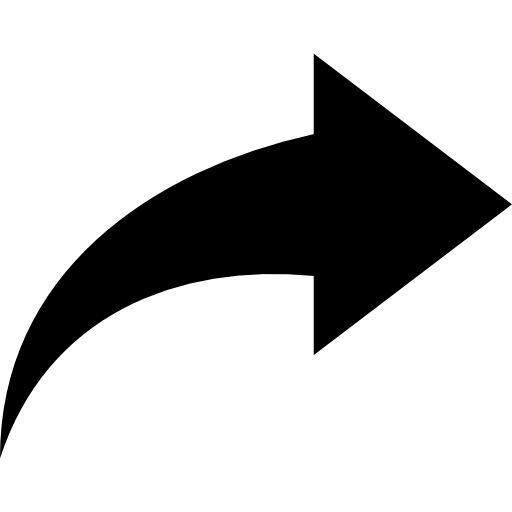
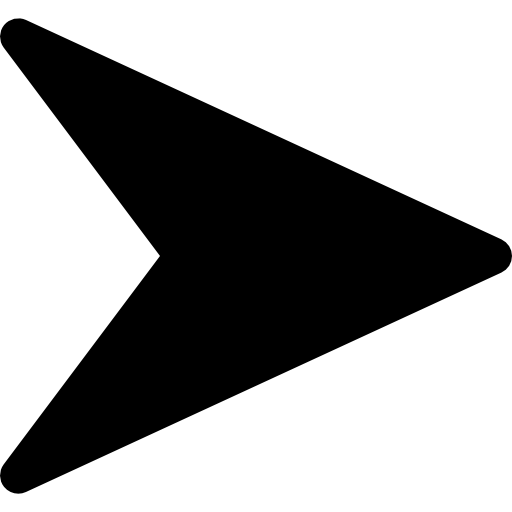
style changed

diff --git a/index.html b/index.html
@@ -10,33 +10,8 @@
             margin: 0;
             padding: 0;
         }
-        .head{
-            display: flex;
-            flex-direction: row;
-            align-items: center;
-            justify-items: center;
-        }
-        h1{
-            font-size: 100px;
-            color:white;
-            margin-top: 5px;
-            text-align: center;
-        }
-        .image{
-            display: flex;
-            justify-content: space-around;
-        }
-        .img{
-            height: 150px;
-            margin-top: 80px;
-            
-        }
-        .img1{
-            height: 200px;
-            margin-top: 80px;
-            
-        }
         p{
+            margin-top: 10px;
             font-size: 100px;
             color:white;
         }
@@ -78,22 +53,40 @@
             text-align: center;
             padding: 5px 20px;
             background-color:aquamarine ;
-            border-radius: 10px;
             font-size: 20px;
+            height: 60px;
+            width: 100px;
+            border-radius: 50%;
+            border:5px solid rgb(15, 84, 61);
         }
+        .btn:hover{
+          box-shadow: 0 0 50px 0 white;
+          cursor: pointer;
+        }
+        .head{
+          display: flex;
+          justify-content: space-around;
+          align-items: center;
+        }
+        .img{
+          height: 80px;
+          padding-top: 2px;
+          padding-right: 5px;
+        }
+       
     </style>
 </head>
 <body>
    <div>
-    <div class="image">
-        
-      <img src="right-arrow.png" alt="arrow" class="img"/>
-         <h1>Tac</h1>
-      <img src="left-arrow.png" alt="arrow" class="img1"/>
-    </div>
-    <div class="head">
-        <p style="margin-left: 50px;">Tic</p>
     
+  <div class="head">
+    <p style="margin-left: 5px;"><img src="right-arrow.png" class="img"/>Tic - Tac -Toe</p>
+   <button class="btn" onclick="loadGame()">Reset</button>
+  </div>
+      
+  
+    <div>
+      <div><span class="Player" >Current Player : <span id="wrongright">X</span></span> </div>
     <div class="board">
         <div class="row">
             <div class="box" onclick="selectBox(0)">1</div>
@@ -111,13 +104,8 @@
             <div class="box" onclick="selectBox(8)">9</div> 
          </div>
     </div>
-       <p style="margin-right: 50px;">Toe</p>
-
-    </div>
-    <div><span class="Player" >Current Player : <span id="wrongright">X</span></span> </div>
-     <div><button class="btn" onclick="loadGame()">Reset</button></div>
-    
-    </div>
+   
+ </div>
 <script>
  const board=[-1,-1,-1,-1,-1,-1,-1,-1,-1];
  let currentPlayer = 'X'
@@ -146,6 +134,21 @@ function selectBox(boxNum){
     board[boxNum] = currentPlayer
     boardPlay();
 
+  if (!checkCurrentWinner()) {
+  let isDraw = true;
+  for (let i = 0; i < board.length; i++) {
+    if (board[i] === -1) {
+      isDraw = false;
+      break;
+    }
+  }
+
+  if (isDraw) {
+    alert("It's a draw!");
+    
+  }
+}
+
     if(currentPlayer === 'X'){
         currentPlayer = '✓'
     }else{
@@ -153,7 +156,9 @@ function selectBox(boxNum){
     }
 
     const getCurrentPlay = document.getElementById("wrongright");
-    getCurrentPlay.innerText = currentPlayer
+    getCurrentPlay.innerText = currentPlayer;
+
+    checkCurrentWinner();
 }
 
 function loadGame(){
@@ -164,6 +169,58 @@ function loadGame(){
     const getCurrentPlay = document.getElementById("wrongright");
     getCurrentPlay.innerText = currentPlayer;
 }
+function playerWinRule(places,player){
+    const a = places[0];
+    const b = places[1];
+    const c = places[2];
+
+    if(board[a] == player && board[b]== player && board[c] == player){
+        return true
+    }else{
+        return false;
+    }
+}
+function checkCurrentWinner(){
+
+  if(playerWinRule([0,1,2],'X')){
+    alert("X wins");
+  }else if(playerWinRule([3,4,5],'X')){
+    alert("X wins");
+  }else if(playerWinRule([6,7,8],'X')){
+    alert("X wins");
+  }else if(playerWinRule([0,3,6],'X')){
+    alert("X wins");
+  }else if(playerWinRule([1,4,7],'X')){
+    alert("X wins");
+  }else if(playerWinRule([2,5,8],'X')){
+    alert("X wins");
+  }else if(playerWinRule([0,4,8],'X')){
+    alert("X wins");
+  }else if(playerWinRule([2,4,6],'X')){
+    alert("X wins");
+  }
+
+  if(playerWinRule([0,1,2],'✓')){
+    alert("✓ wins");
+  }else if(playerWinRule([3,4,5],'✓')){
+    alert("✓ wins");
+  }else if(playerWinRule([6,7,8],'✓')){
+    alert("✓ wins");
+  }else if(playerWinRule([0,3,6],'✓')){
+    alert("✓ wins");
+  }else if(playerWinRule([1,4,7],'✓')){
+    alert("✓ wins");
+  }else if(playerWinRule([2,5,8],'✓')){
+    alert("✓ wins");
+  }else if(playerWinRule([0,4,8],'✓')){
+    alert("✓ wins");
+  }else if(playerWinRule([2,4,6],'✓')){
+    alert("✓ wins");
+  }
+}
+
+
+
 </script>
 </body>
 
